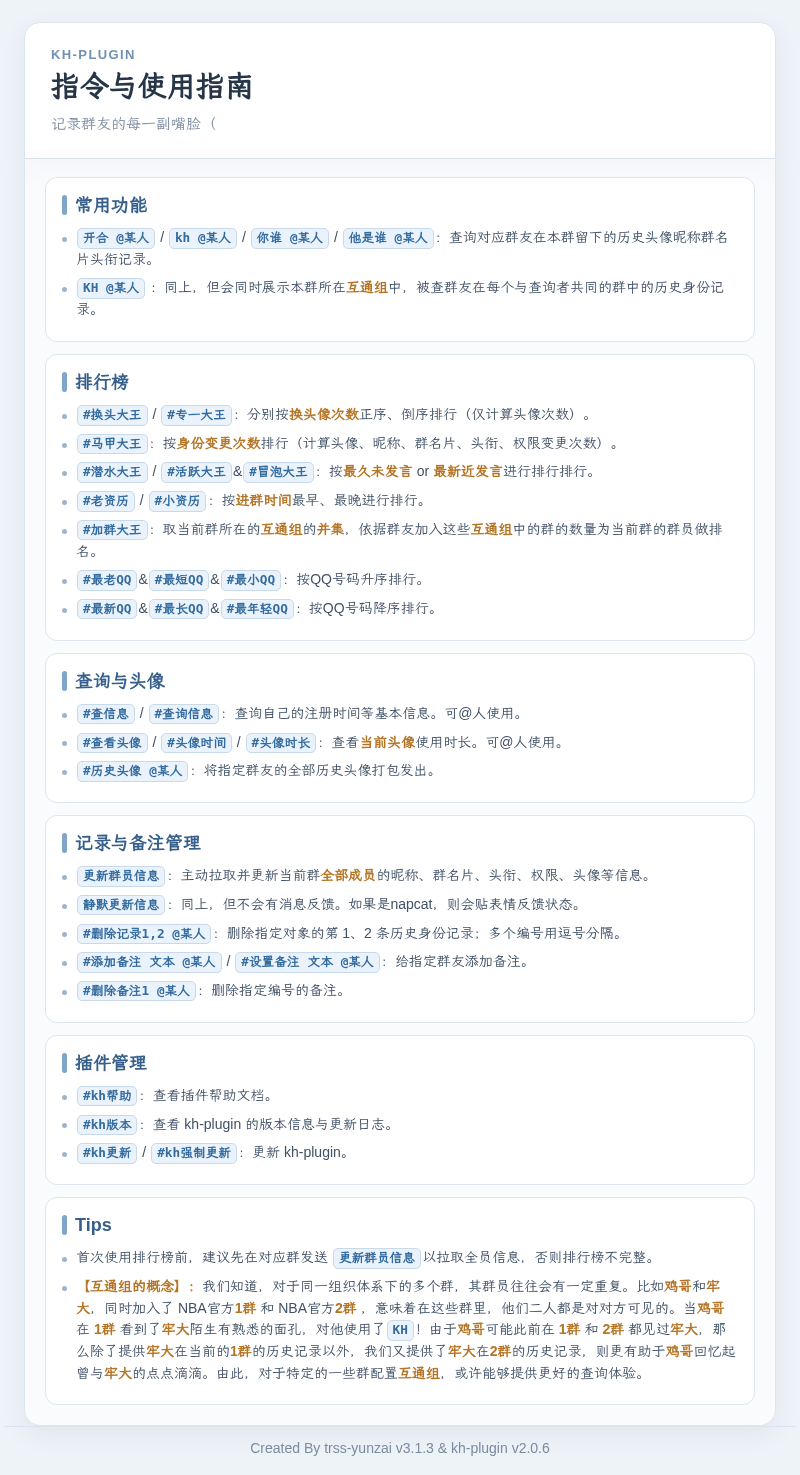
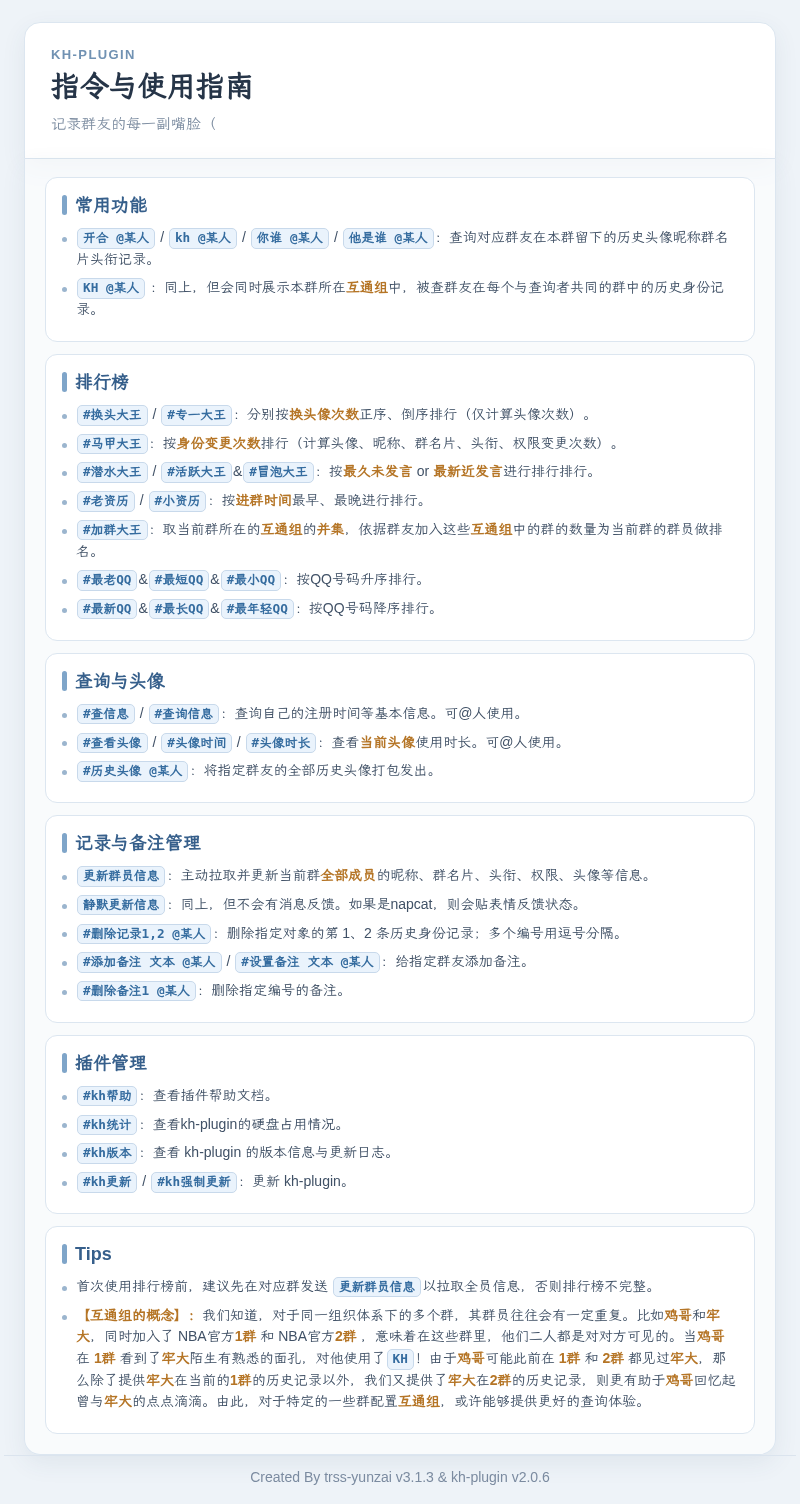
新增#kh统计：查看头像占用情况

diff --git a/apps/statistics.js b/apps/statistics.js
@@ -1,0 +1,198 @@
+// 先做纯文本，有空了渲染成图表
+
+import fs from 'node:fs/promises';
+import path from 'node:path';
+import { isDivingGroup } from '../utils/group-policy.js';
+import { headDir } from '../components/runtime.js';
+import { log } from '../utils/logger.js';
+
+const AVATAR_FILE_RE = /^(\d+)_(\d+)_(\d+)\.jpg$/i;
+const STAT_CONCURRENCY = 48;
+
+function formatBytes(bytes) {
+    if (!Number.isFinite(bytes) || bytes <= 0) return '0 B';
+
+    const units = ['B', 'KB', 'MB', 'GB', 'TB'];
+    const index = Math.min(
+        Math.floor(Math.log(bytes) / Math.log(1024)),
+        units.length - 1
+    );
+    const value = bytes / (1024 ** index);
+
+    return `${value >= 100 || index === 0 ? value.toFixed(0) : value.toFixed(2)} ${units[index]}`;
+}
+
+function maskGroupName(name) {
+    const chars = Array.from(String(name || '').trim());
+
+    // 三字及以上
+    if (chars.length >= 3) return `${chars[0]}** ${chars.at(-1)}`;
+
+    // 两字群名隐去第二个
+    if (chars.length === 2) return `${chars[0]}**`;
+
+    // 单字或空群名
+    return '**';
+}
+
+function maskGroupId(groupId) {
+    const text = String(groupId);
+
+    // 无法拿到群名时：只保留前两位与后两位。
+    return text.length <= 4
+        ? `${text.slice(0, 2)}**`
+        : `${text.slice(0, 2)}** ${text.slice(-2)}`;
+}
+
+async function mapWithConcurrency(items, limit, worker) {
+    const results = new Array(items.length);
+    let cursor = 0;
+
+    const runners = Array.from(
+        { length: Math.min(limit, items.length) },
+        async () => {
+            while (true) {
+                const index = cursor++;
+                if (index >= items.length) return;
+                results[index] = await worker(items[index]);
+            }
+        }
+    );
+
+    await Promise.all(runners);
+    return results;
+}
+
+async function collectAvatarStats(dir) {
+    const entries = await fs.readdir(dir, { withFileTypes: true });
+    const files = entries.filter(
+        entry => entry.isFile() && AVATAR_FILE_RE.test(entry.name)
+    );
+
+    // 读取文件元数据 size，限制并发
+    const records = await mapWithConcurrency(
+        files,
+        STAT_CONCURRENCY,
+        async entry => {
+            const match = entry.name.match(AVATAR_FILE_RE);
+
+            try {
+                const stat = await fs.stat(path.join(dir, entry.name));
+                return { groupId: match[1], size: stat.size };
+            } catch (error) {
+                log.w(`统计时跳过无法读取的头像文件 ${entry.name}:${error.message}`);
+                return null;
+            }
+        }
+    );
+
+    const groups = new Map();
+    let count = 0;
+    let bytes = 0;
+
+    for (const record of records) {
+        if (!record) continue;
+
+        count += 1;
+        bytes += record.size;
+
+        const group = groups.get(record.groupId) || {
+            groupId: record.groupId,
+            count: 0,
+            bytes: 0
+        };
+
+        group.count += 1;
+        group.bytes += record.size;
+        groups.set(record.groupId, group);
+    }
+
+    return {
+        count,
+        bytes,
+        groups: [...groups.values()].sort((a, b) => b.bytes - a.bytes)
+    };
+}
+
+async function getGroupName(bot, groupId) {
+    const group = bot?.pickGroup?.(Number(groupId));
+    if (!group) return null;
+
+    const cachedName = group.info?.group_name || group.group_name || group.name;
+    if (cachedName) return String(cachedName);
+
+    try {
+        const info = await group.getInfo?.(true);
+        return info?.group_name || info?.name || null;
+    } catch {
+        // 已退群、接口不可用、权限或网络异常：回退到脱敏群号。
+        return null;
+    }
+}
+
+export class KhStatistics extends plugin {
+    constructor() {
+        super({
+            name: 'kh插件-存储统计',
+            dsc: '统计 KH 历史头像文件数量和存储占用',
+            event: 'message',
+            priority: 5000,
+            rule: [
+                {
+                    reg: '^#?kh统计$',
+                    fnc: 'showStatistics'
+                }
+            ]
+        });
+    }
+
+    async showStatistics(e) {
+        if (!e.isMaster) return false;
+        if (isDivingGroup(e)) return false;
+
+        try {
+            const stats = await collectAvatarStats(headDir);
+            const isPrivate = !e.isGroup;
+
+            // 群名查询另外限并发。
+            const names = await mapWithConcurrency(
+                stats.groups,
+                8,
+                async group => ({
+                    groupId: group.groupId,
+                    name: await getGroupName(e.bot || globalThis.Bot, group.groupId)
+                })
+            );
+            const nameByGroupId = new Map(
+                names.map(item => [item.groupId, item.name])
+            );
+
+            const rows = stats.groups.map((group, index) => {
+                const name = nameByGroupId.get(group.groupId);
+
+                // 私聊主显示完整群名。
+                // 群聊显示打码群名。
+                // 无法取得群名,显示脱敏群号。
+                const label = name
+                    ? (isPrivate ? name : maskGroupName(name))
+                    : maskGroupId(group.groupId);
+
+                return `${index + 1}. ${label}：${group.count.toLocaleString('zh-CN')} 张 · ${formatBytes(group.bytes)}`;
+            });
+
+            await e.reply([
+                'KH 头像存储统计',
+                `总头像：${stats.count.toLocaleString('zh-CN')} 张`,
+                `总占用：${formatBytes(stats.bytes)}`,
+                '',
+                // '分群统计（按占用降序）',
+                ...rows
+            ].join('\n'));
+        } catch (error) {
+            log.e('统计 KH 头像存储失败', error);
+            await e.reply('统计 KH 头像存储时发生错误，请查看控制台日志。');
+        }
+
+        return true;
+    }
+}

diff --git a/resources/help/help.md b/resources/help/help.md
@@ -2,7 +2,7 @@
  * @Author: 渔火Arcadia  https://github.com/yhArcadia
  * @Date: 2026-08-19 21:26:57
  * @LastEditors: 渔火Arcadia
- * @LastEditTime: 2026-08-20 16:19:35
+ * @LastEditTime: 2026-08-22 22:54:39
  * @FilePath: /kh-plugin/resources/help/help.md
  * @Description: kh插件帮助文档
  * 
@@ -41,6 +41,7 @@
 # 插件管理
 
 - `#kh帮助`：查看插件帮助文档。
+- `#kh统计`：查看kh-plugin的硬盘占用情况。
 - `#kh版本`：查看 kh-plugin 的版本信息与更新日志。
 - `#kh更新` / `#kh强制更新`：更新 kh-plugin。
 
